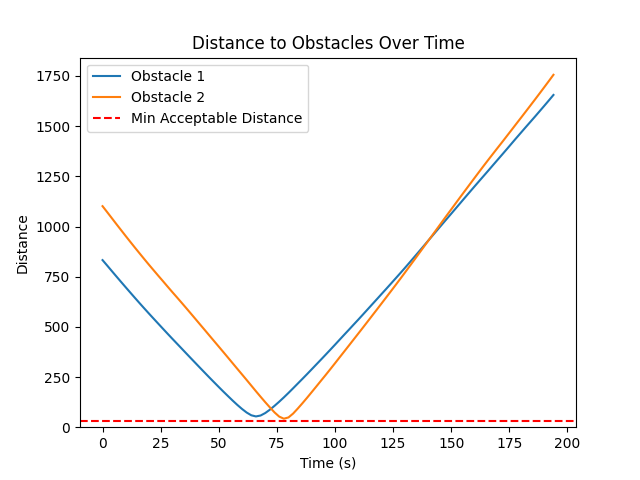
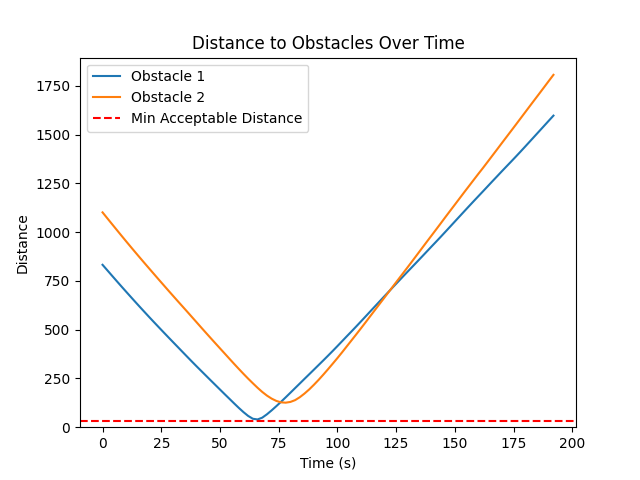
scale down obstacle for graph planning

diff --git a/colav/planner.py b/colav/planner.py
@@ -385,6 +385,20 @@ class TimeSpaceColav:
                 else:
                     active_node_filters.append(node_filter)
 
+
+
+            p0_point = shapely.Point(p0)
+            pf_point = shapely.Point(pf)
+            for key in (projected_obstacles_as_dict).keys():
+                for i in range(10):
+                    pf_in_obs = projected_obstacles_as_dict[key].contains(pf_point)
+                    p0_in_obs = projected_obstacles_as_dict[key].contains(p0_point)
+                    if pf_in_obs or p0_in_obs:
+                        logger.warning(f"{pf if pf_in_obs else p0} is colliding with an obstacle, scaling down obstacle (iteration {i+1}/{10})")
+                        projected_obstacles_as_dict[key] = shapely.affinity.scale(projected_obstacles_as_dict[key], xfact=0.9, yfact=0.9, origin=shapely.Point(*moving_obstacles_as_dict[key].position))
+                    else:
+                        break
+
             # Create path planner
             self.path_planner = VGPathPlanner(
                 p0,
